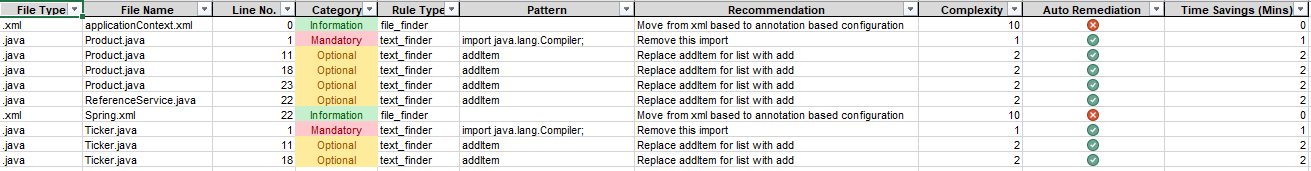
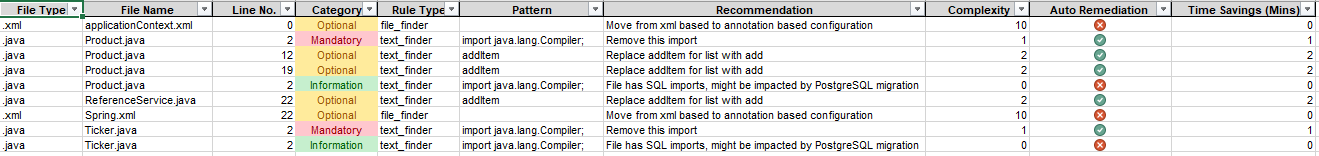
Code Review Changes

diff --git a/input-files/Ticker.java b/input-files/Ticker.java
@@ -1,3 +1,4 @@
+import java.sql.Statement;
 import java.lang.Compiler; 
 import java.lang.defr;
 public class Ticker 
@@ -9,14 +10,12 @@ public class Ticker
 
         Class c = geek.getClass(); 
         System.out.println(c); 
-        discrepancyLineList.addItem("add this item");
         Object g = Compiler.command("javac CompilerClass"); 
         System.out.println("Value : " + g); 
   
         // Use of compileClass : 
         // Since it is not a subclass so there is no compiler for it 
         boolean check = Compiler.compileClass(c); 
-        discrepancyLineList.addItem("add this item");
         System.out.println("\nIs compilation successful ? : " + check); 
   
         String str = "CompilerClass"; 

diff --git a/input-files/Product.java b/input-files/Product.java
@@ -1,3 +1,4 @@
+import java.sql.Statement;
 import java.lang.Compiler; 
 import java.lang.defr;
 public class Product 
@@ -21,7 +22,6 @@ public class Product
   
         String str = "CompilerClass"; 
         boolean check1 = Compiler.compileClasses(str); 
-        discrepancyLineList.addItem("add this item");  
         System.out.println("\nIs compilation successful using str ? : " + check1); 
   
         Compiler.disable(); 
